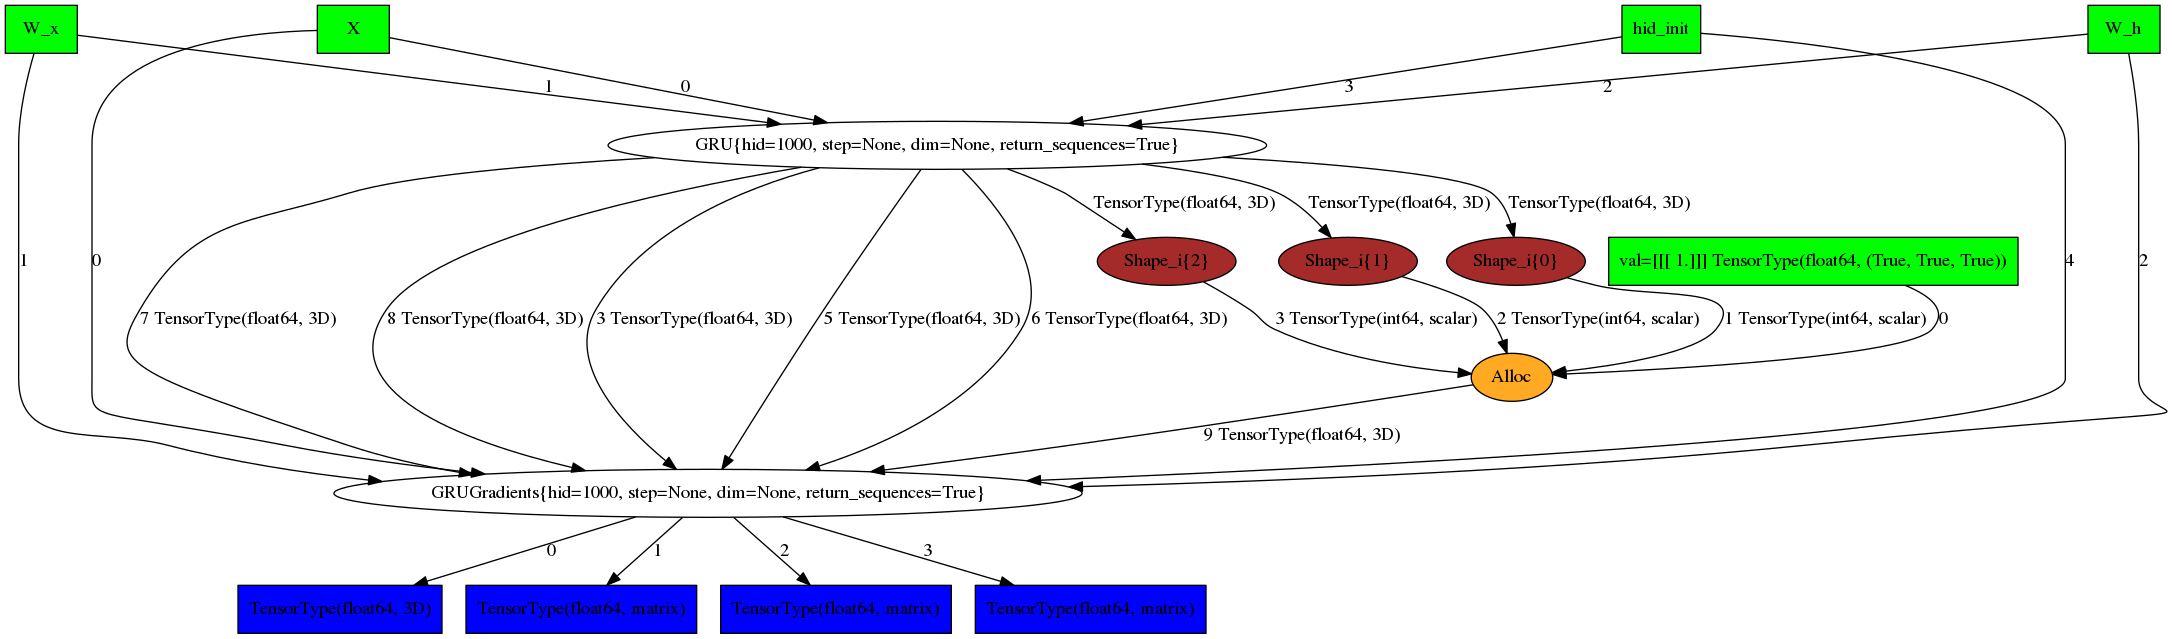
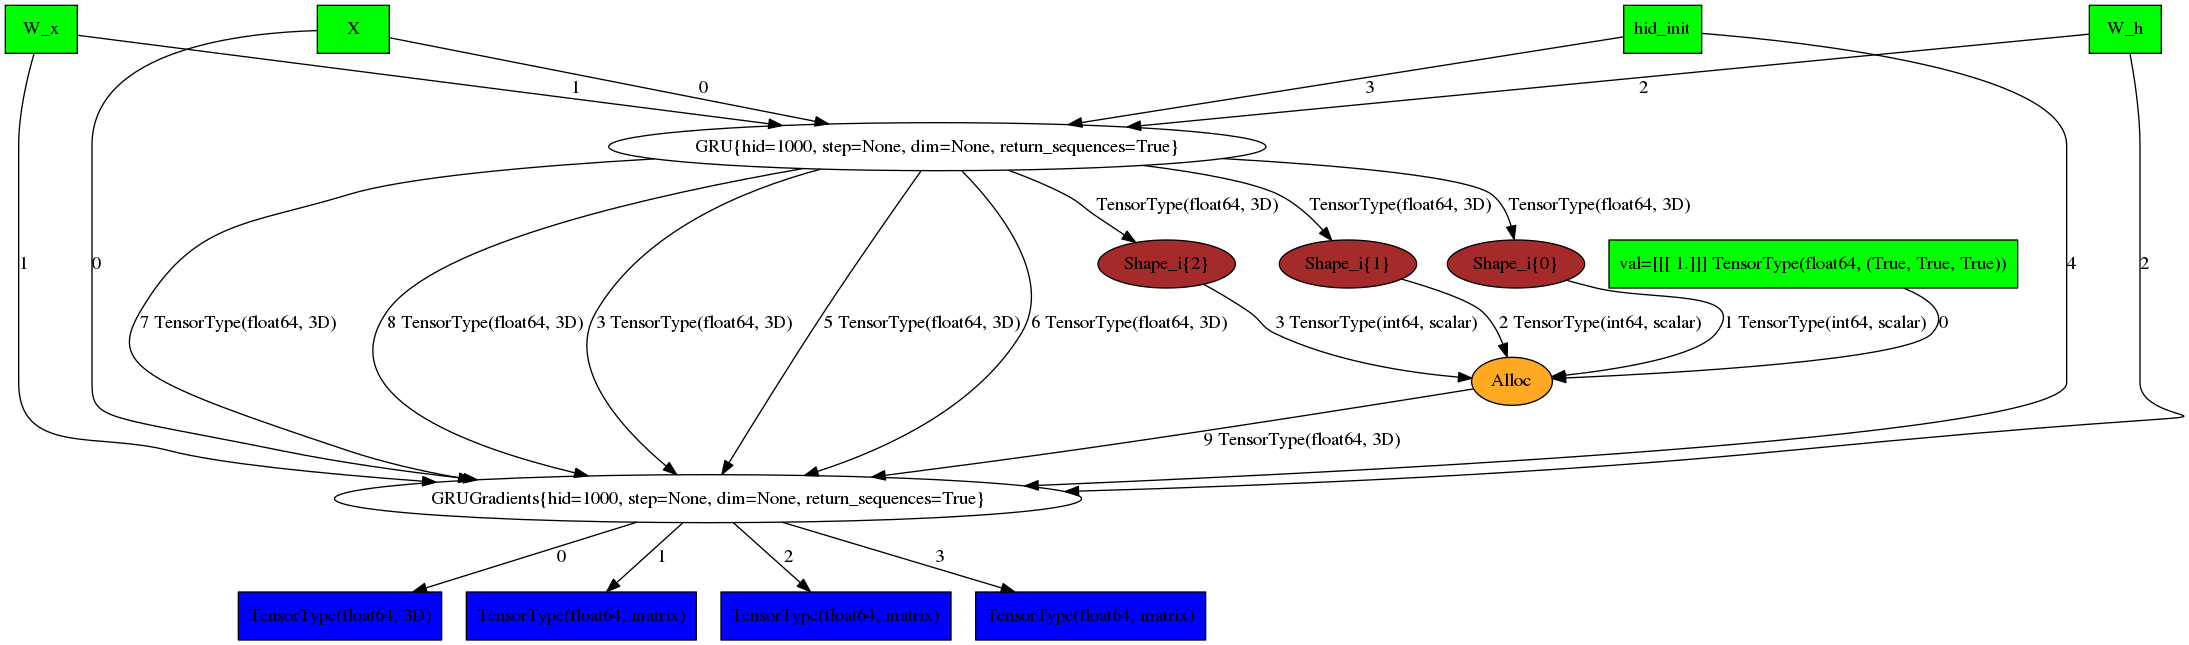
add computation for gradient bias

diff --git a/mkl_gru_gradients.py b/mkl_gru_gradients.py
@@ -1,17 +1,19 @@
 
 import theano
 from theano import tensor, gof
+from theano.tensor import TensorType
 from theano.tensor.blas import ldflags
 
 
 class GRUGradients(gof.Op):
     __props__ = ('hid', 'step', 'dim', 'return_sequences')
 
-    def __init__(self, hid, step=None, dim=None, return_sequences=False):
+    def __init__(self, hid, step=None, dim=None, return_sequences=False, bias=False):
         self.hid = hid
         self.step = step
         self.dim = dim
         self.return_sequences = return_sequences
+        self.bias = bias
         super(GRUGradients, self).__init__()
 
     def make_node(self, X, Wx, Wh, hid, hid_init, zt, rt, hcan, hht, grads):
@@ -56,6 +58,8 @@ class GRUGradients(gof.Op):
         assert inp[8].type.ndim is 3
 
         out = [X.type(), Wx.type(), Wh.type(), hid_init.type()]
+        if self.bias:
+            out = out + [TensorType(dtype=Wx.type.dtype, broadcastable=(False,))()]
         return gof.Apply(self, inp, out)
 
     def c_headers(self):
@@ -179,7 +183,13 @@ class GRUGradients(gof.Op):
 
     def c_code(self, node, name, inputs, outputs, sub):
         X, Wx, Wh, hid_state, hid_init, zt, rt, hcan, hht, gz = inputs
-        gi, gwx, gwh, ghinit = outputs
+
+        if self.bias:
+            with_bias = 1
+            gi, gwx, gwh, ghinit, gb = outputs
+        else:
+            with_bias = 0
+            gi, gwx, gwh, ghinit = outputs
 
         hid = self.hid
         if self.return_sequences:
@@ -342,6 +352,32 @@ class GRUGradients(gof.Op):
                 PyErr_SetString(PyExc_RuntimeError, \"GRUGradients: create output array failed\");
                 goto gru_backward_fail;
             }
+            """ % locals()
+
+        if self.bias:
+            ccode += """
+                if (%(gb)s == NULL || PyArray_NDIM(%(gb)s) != 1 ||
+                    PyArray_DIMS(%(gb)s)[0] != 3 * hid_dims) {
+                    Py_XDECREF(%(gb)s);
+
+                    dims[0] = 3 * hid_dims;
+                    %(gb)s = (PyArrayObject*) PyArray_ZEROS(1, dims, PyArray_TYPE(%(Wx)s), 0);
+                }
+
+                if (NULL == %(gb)s) {
+                    PyErr_SetString(PyExc_RuntimeError, \"GRUGradients: create output array for gradient bias fasiled\");
+                    goto gru_backward_fail;
+                }
+
+                %(d)s* gb_ptr = (%(d)s*) PyArray_DATA(%(gb)s);
+                """ % locals()
+        else:
+            ccode += """
+                // no gradient bias for this apply..
+                %(d)s* gb_ptr = NULL;
+                """ % locals()
+
+        ccode += """
 
             if (NULL == d0) {
                 d0 = (%(d)s*) mkl_malloc(batch_size * hid_dims * sizeof (%(d)s), 64);
@@ -522,7 +558,18 @@ class GRUGradients(gof.Op):
                 cblas_%(dtype)sgemm_batch(CblasRowMajor, transA, transB, m, n, k,
                                           alpha, A, lda, B, ldb, beta, C, ldc, 2, size_per_grp);
 
+                // gb, reduction to one line
+                if (gb_ptr) {
+                    for (int t = 0; t < batch_size; t++) {
+                        v%(dtype)sAdd(hid_dims, d2 + t * hid_dims, gb_ptr, gb_ptr); // for bh
+                        v%(dtype)sAdd(hid_dims, d14 + t * hid_dims, gb_ptr + hid_dims, gb_ptr + hid_dims); // for bz
+                        v%(dtype)sAdd(hid_dims, d11 + t * hid_dims, gb_ptr + 2 * hid_dims, gb_ptr + 2 * hid_dims); // for br
+                    }
+                }
             }
+
+            // dhinit is dhnext(0)
+            memcpy ((void*)PyArray_DATA(%(ghinit)s), (void*)dhnext, batch_size * hid_dims * sizeof (%(d)s));
 
             gru_backward_fail:
             Py_XDECREF(x_src);

diff --git a/test_gru_backward_bias.py b/test_gru_backward_bias.py
@@ -1,0 +1,113 @@
+
+import time
+import theano
+import numpy as np
+
+from theano import tensor as T
+from theano.tensor.nnet import sigmoid
+from theano.tensor import tanh
+
+from mkl_gru import GRU
+
+X = T.dtensor3('X')
+W_xh = T.dmatrix('W_xh')
+W_xz = T.dmatrix('W_xz')
+W_xr = T.dmatrix('W_xr')
+
+W_hh = T.dmatrix('W_hh')
+W_hz = T.dmatrix('W_hz')
+W_hr = T.dmatrix('W_hr')
+
+B_h = T.dvector('B_h')
+B_z = T.dvector('B_z')
+B_r = T.dvector('B_r')
+
+hid = T.dmatrix('hid')
+
+np.random.seed(123)
+
+
+def step(x_h, x_z, x_r, h_tm1):
+    global W_hh, W_hz, W_hr, B_h, B_z, B_r
+    z_t = sigmoid(x_z + T.dot(h_tm1, W_hz) + B_z)
+    r_t = sigmoid(x_r + T.dot(h_tm1, W_hr) + B_r)
+    can_h_t = tanh(x_h + r_t * T.dot(h_tm1, W_hh) + B_h)
+
+    h_t = (1. - z_t) * h_tm1 + z_t * can_h_t
+    return h_t
+
+def GRU_theano():
+    global X, W_xr, W_xz, W_xh, hid, W_hh, Whz, Whr
+    X_r = T.dot(X, W_xr)
+    X_z = T.dot(X, W_xz)
+    X_h = T.dot(X, W_xh)
+
+    fn = lambda x_h, x_z, x_r, h_tm1: step(x_h, x_z, x_r, h_tm1)
+
+    result, updates = theano.scan(fn, sequences=[X_h, X_z, X_r], outputs_info=hid, name='test_theano_gru_scan')
+
+    loss = result.sum()
+    gx, gwxh, gwxz, gwxr, gwhh, gwhz, gwhr, ghinit, gbh, gbz, gbr = theano.grad(loss,
+                                    [X, W_xh, W_xz, W_xr, W_hh, W_hz, W_hr, hid, B_h, B_z, B_r])
+
+    f = theano.function([X, W_xh, W_xz, W_xr, W_hh, W_hz, W_hr, hid, B_h, B_z, B_r],
+                        [gx, gwxh, gwxz, gwxr, gwhh, gwhz, gwhr, ghinit, gbh, gbz, gbr], updates=updates)
+
+    return f
+
+
+def GRU_MKL():
+
+    X = T.dtensor3('X')
+    W_x = T.dmatrix('W_x')
+    W_h = T.dmatrix('W_h')
+    B = T.dvector('b')
+    Hid_init = T.dmatrix('hid_init')
+
+    Z = GRU(hid=1000, return_sequences=True)(X, W_x, W_h, Hid_init, B)
+
+    loss = Z[0].sum()
+    gi, gwx, gwh, ghinit, gbias = theano.grad(loss, [X, W_x, W_h, Hid_init, B])
+    f = theano.function([X, W_x, W_h, Hid_init, B], [gi, gwx, gwh, ghinit, gbias])
+    theano.printing.pydotprint(f, outfile='gru_backward_bias.png', var_with_name_simple=True)
+
+    return f
+
+
+if __name__ == '__main__':
+    f_theano = GRU_theano()
+    f_mkl = GRU_MKL()
+
+    v_x = np.random.rand(2, 80, 620).astype(np.float64)
+    v_w = np.random.rand(3*620, 1000).astype(np.float64) - np.random.rand(3*620, 1000).astype(np.float64) 
+    v_w_xh = v_w[0:620, :]
+    v_w_xz = v_w[620:1240, :]
+    v_w_xr = v_w[1240:, :]
+
+    v_wh = np.random.rand(3*1000, 1000).astype(np.float64) - np.random.rand(3*1000, 1000).astype(np.float64) 
+
+    v_w_hh = v_wh[0:1000, :]
+    v_w_hz = v_wh[1000:2000, :]
+    v_w_hr = v_wh[2000:, :]
+
+    v_hid = np.zeros((80, 1000), np.float64)
+
+    v_bias = np.zeros((3000,), np.float64)
+    v_b_h = v_bias[0:1000]
+    v_b_z = v_bias[1000:2000]
+    v_b_r = v_bias[2000:]
+    
+    out = f_theano(v_x, v_w_xh, v_w_xz, v_w_xr, v_w_hh, v_w_hz, v_w_hr, v_hid, v_b_h, v_b_z, v_b_r)
+    #print(out[-1])
+
+    foo = f_mkl(v_x, v_w, v_wh, v_hid, v_bias)
+    b1 = foo[-1][0:1000]
+    b2 = foo[-1][1000:2000]
+    b3 = foo[-1][2000:]
+
+    assert np.allclose(out[-3], b1, atol=1e-4, rtol=1e-3)
+    assert np.allclose(out[-2], b2, atol=1e-4, rtol=1e-3)
+    assert np.allclose(out[-1], b3, atol=1e-4, rtol=1e-3)
+
+    assert np.allclose(out[-4], foo[-2], atol=1e-4, rtol=1e-3)
+

diff --git a/mkl_gru.py b/mkl_gru.py
@@ -28,6 +28,11 @@ class GRU(gof.Op):
         else:
             raise ValueError('GRU: number of parameter is wrong.')
 
+        if len(inputs) == 5:
+            self.bias = True
+        else:
+            self.bias = False
+
         assert inp[0].ndim is 3
         assert inp[1].ndim is 2
         assert inp[2].ndim is 2
@@ -516,17 +521,27 @@ class GRU(gof.Op):
                                         dim=self.dim,
                                         return_sequences=self.return_sequences)(X, Wh, hid, zt, rt, hcan, hht, gz)
         """
-        
-        GRUGrad = GRUGradients(hid=self.hid,
-                               step=self.step,
-                               dim=self.dim,
-                               return_sequences=self.return_sequences)
+       
+        if self.bias:
+            GRUGrad = GRUGradients(hid=self.hid,
+                                   step=self.step,
+                                   dim=self.dim,
+                                   return_sequences=self.return_sequences,
+                                   bias=True)
+            gradi, gradwx, gradwh, gradhinit, gradbias = GRUGrad(X, Wx, Wh, hid, hid_init, zt, rt, hcan, hht, gz)
+        else:
+            GRUGrad = GRUGradients(hid=self.hid,
+                                   step=self.step,
+                                   dim=self.dim,
+                                   return_sequences=self.return_sequences,
+                                   bias=False)
+            gradi, gradwx, gradwh, gradhinit = GRUGrad(X, Wx, Wh, hid, hid_init, zt, rt, hcan, hht, gz)
+            gradbias = None
 
-        gradi, gradwx, gradwh, gradhinit = GRUGrad(X, Wx, Wh, hid, hid_init, zt, rt, hcan, hht, gz) 
         if len(inp) is 4:
             return [gradi, gradwx, gradwh, gradhinit]
         else:
-            return [gradi, gradwx, gradwh, gradhinit, gradi]
+            return [gradi, gradwx, gradwh, gradhinit, gradbias]
 
     def c_code_cache_version(self):
         return (1, 0, 0)
